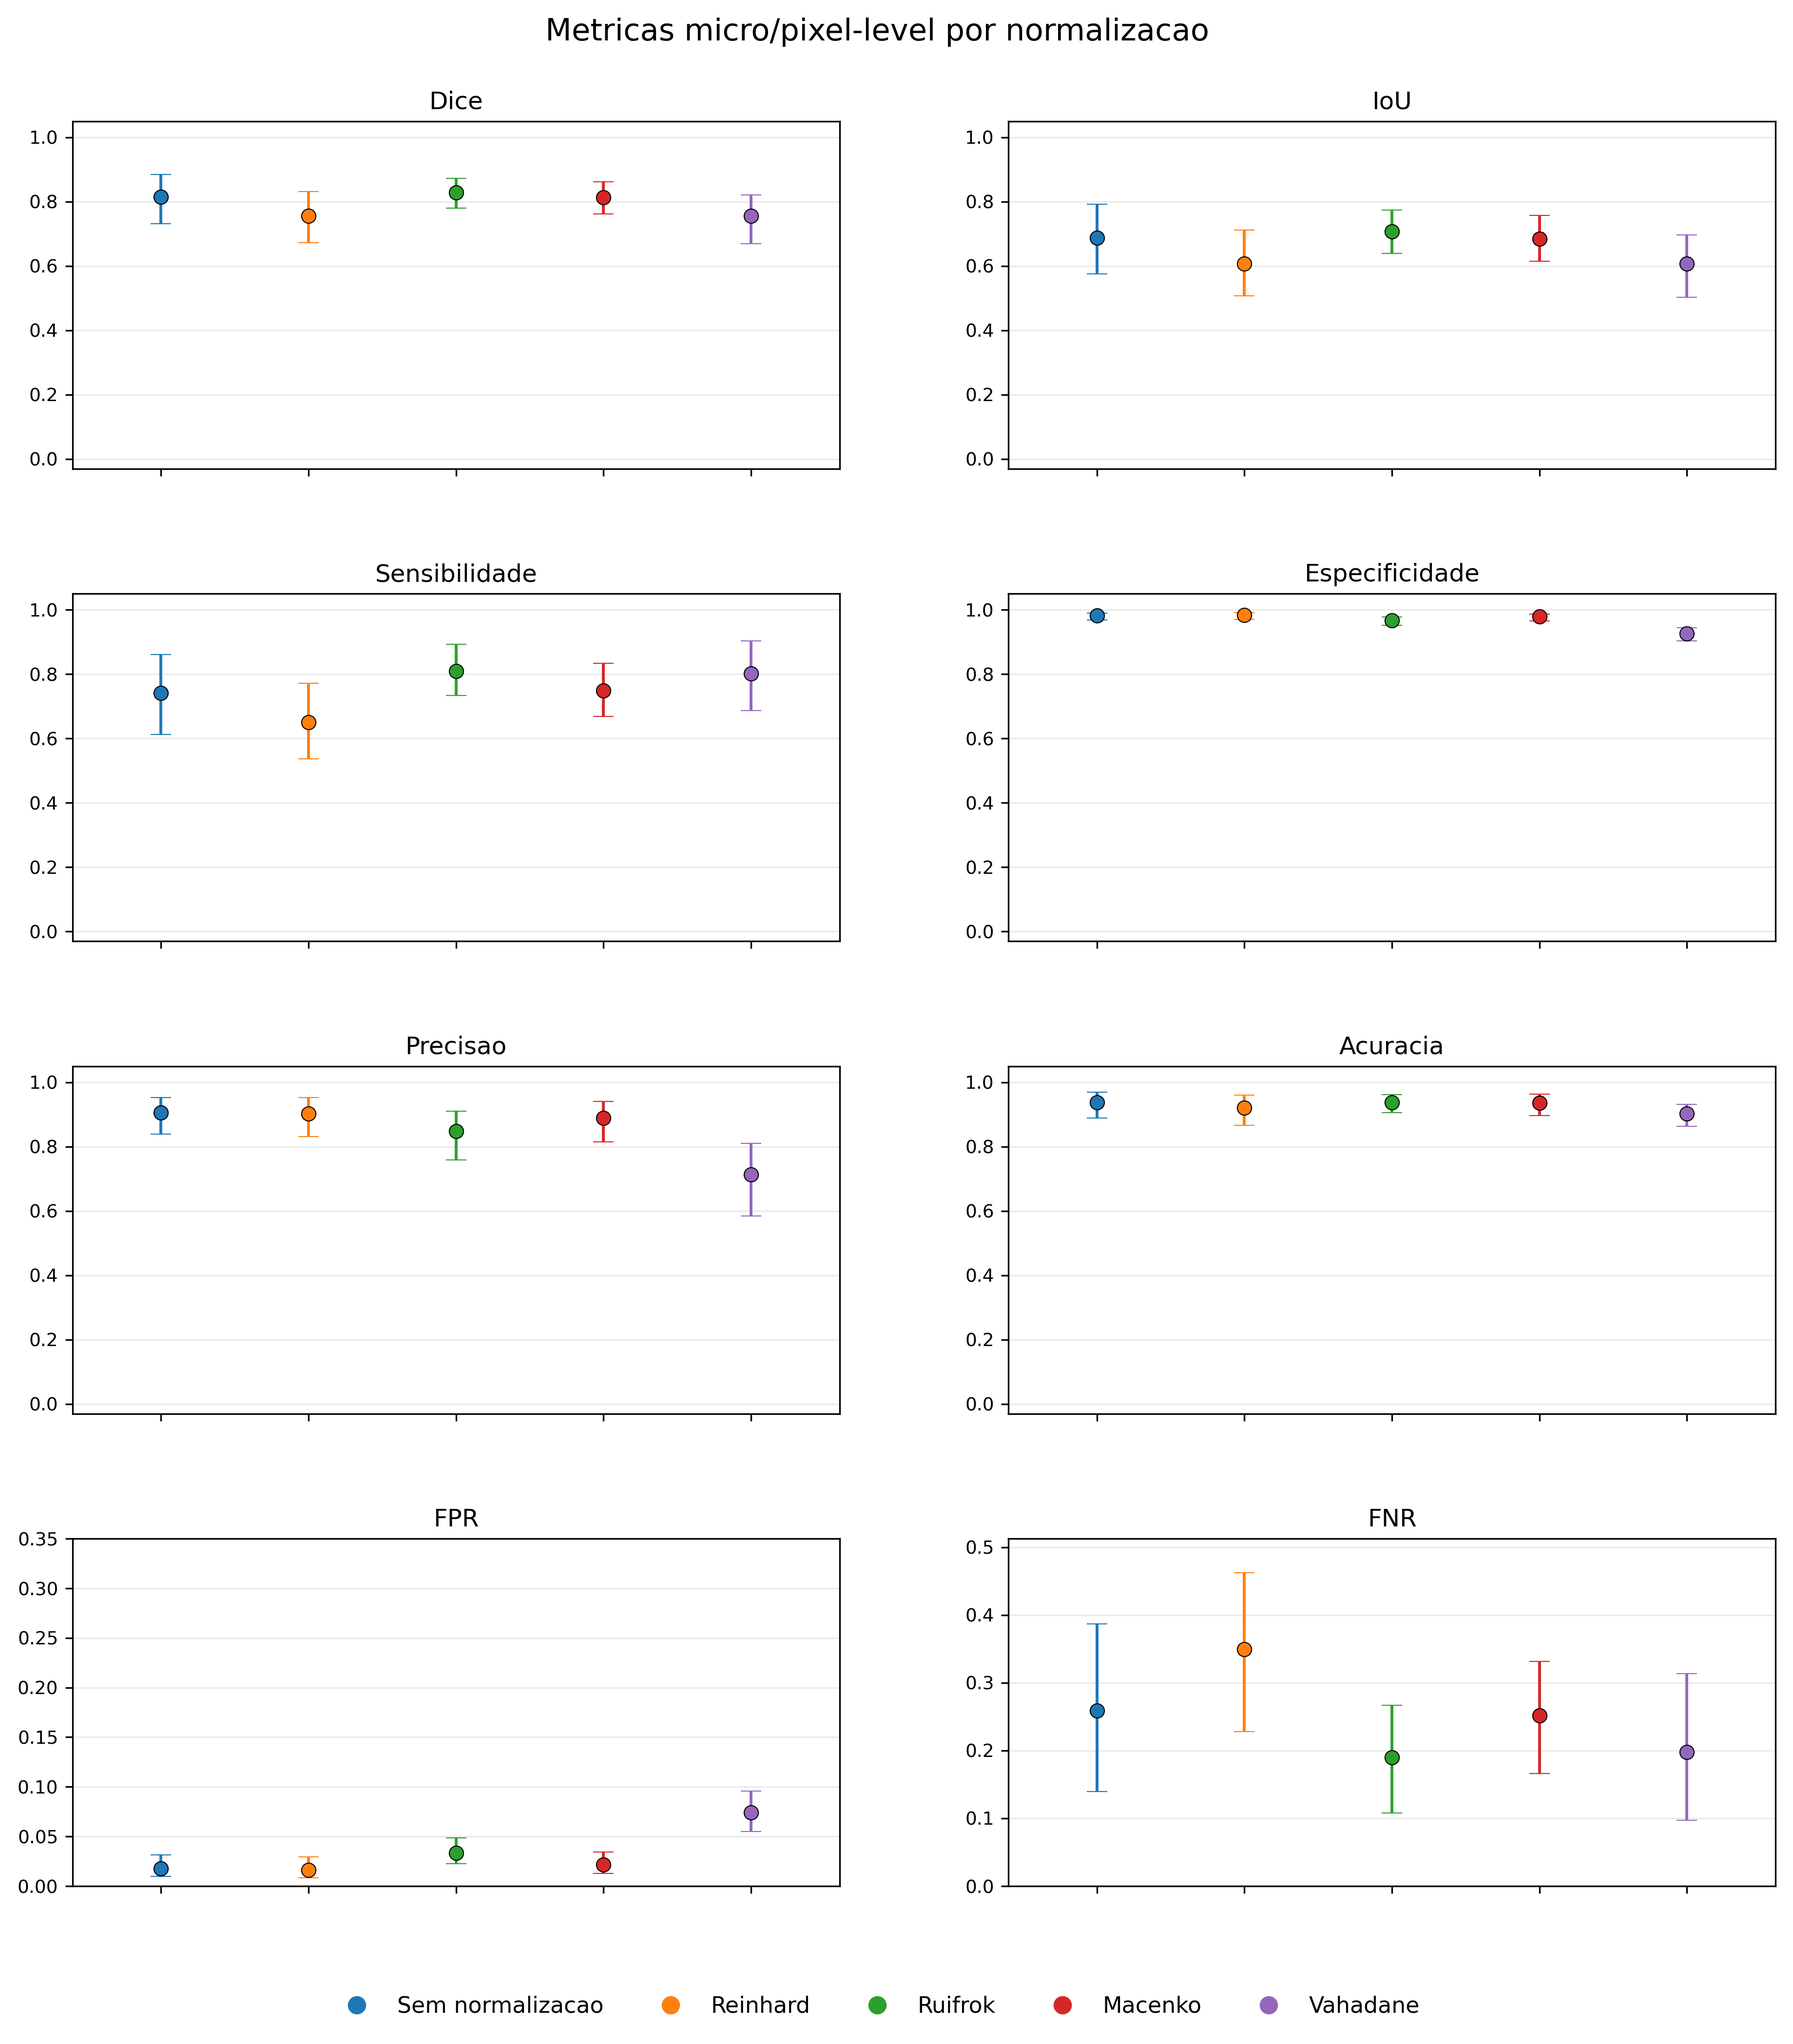
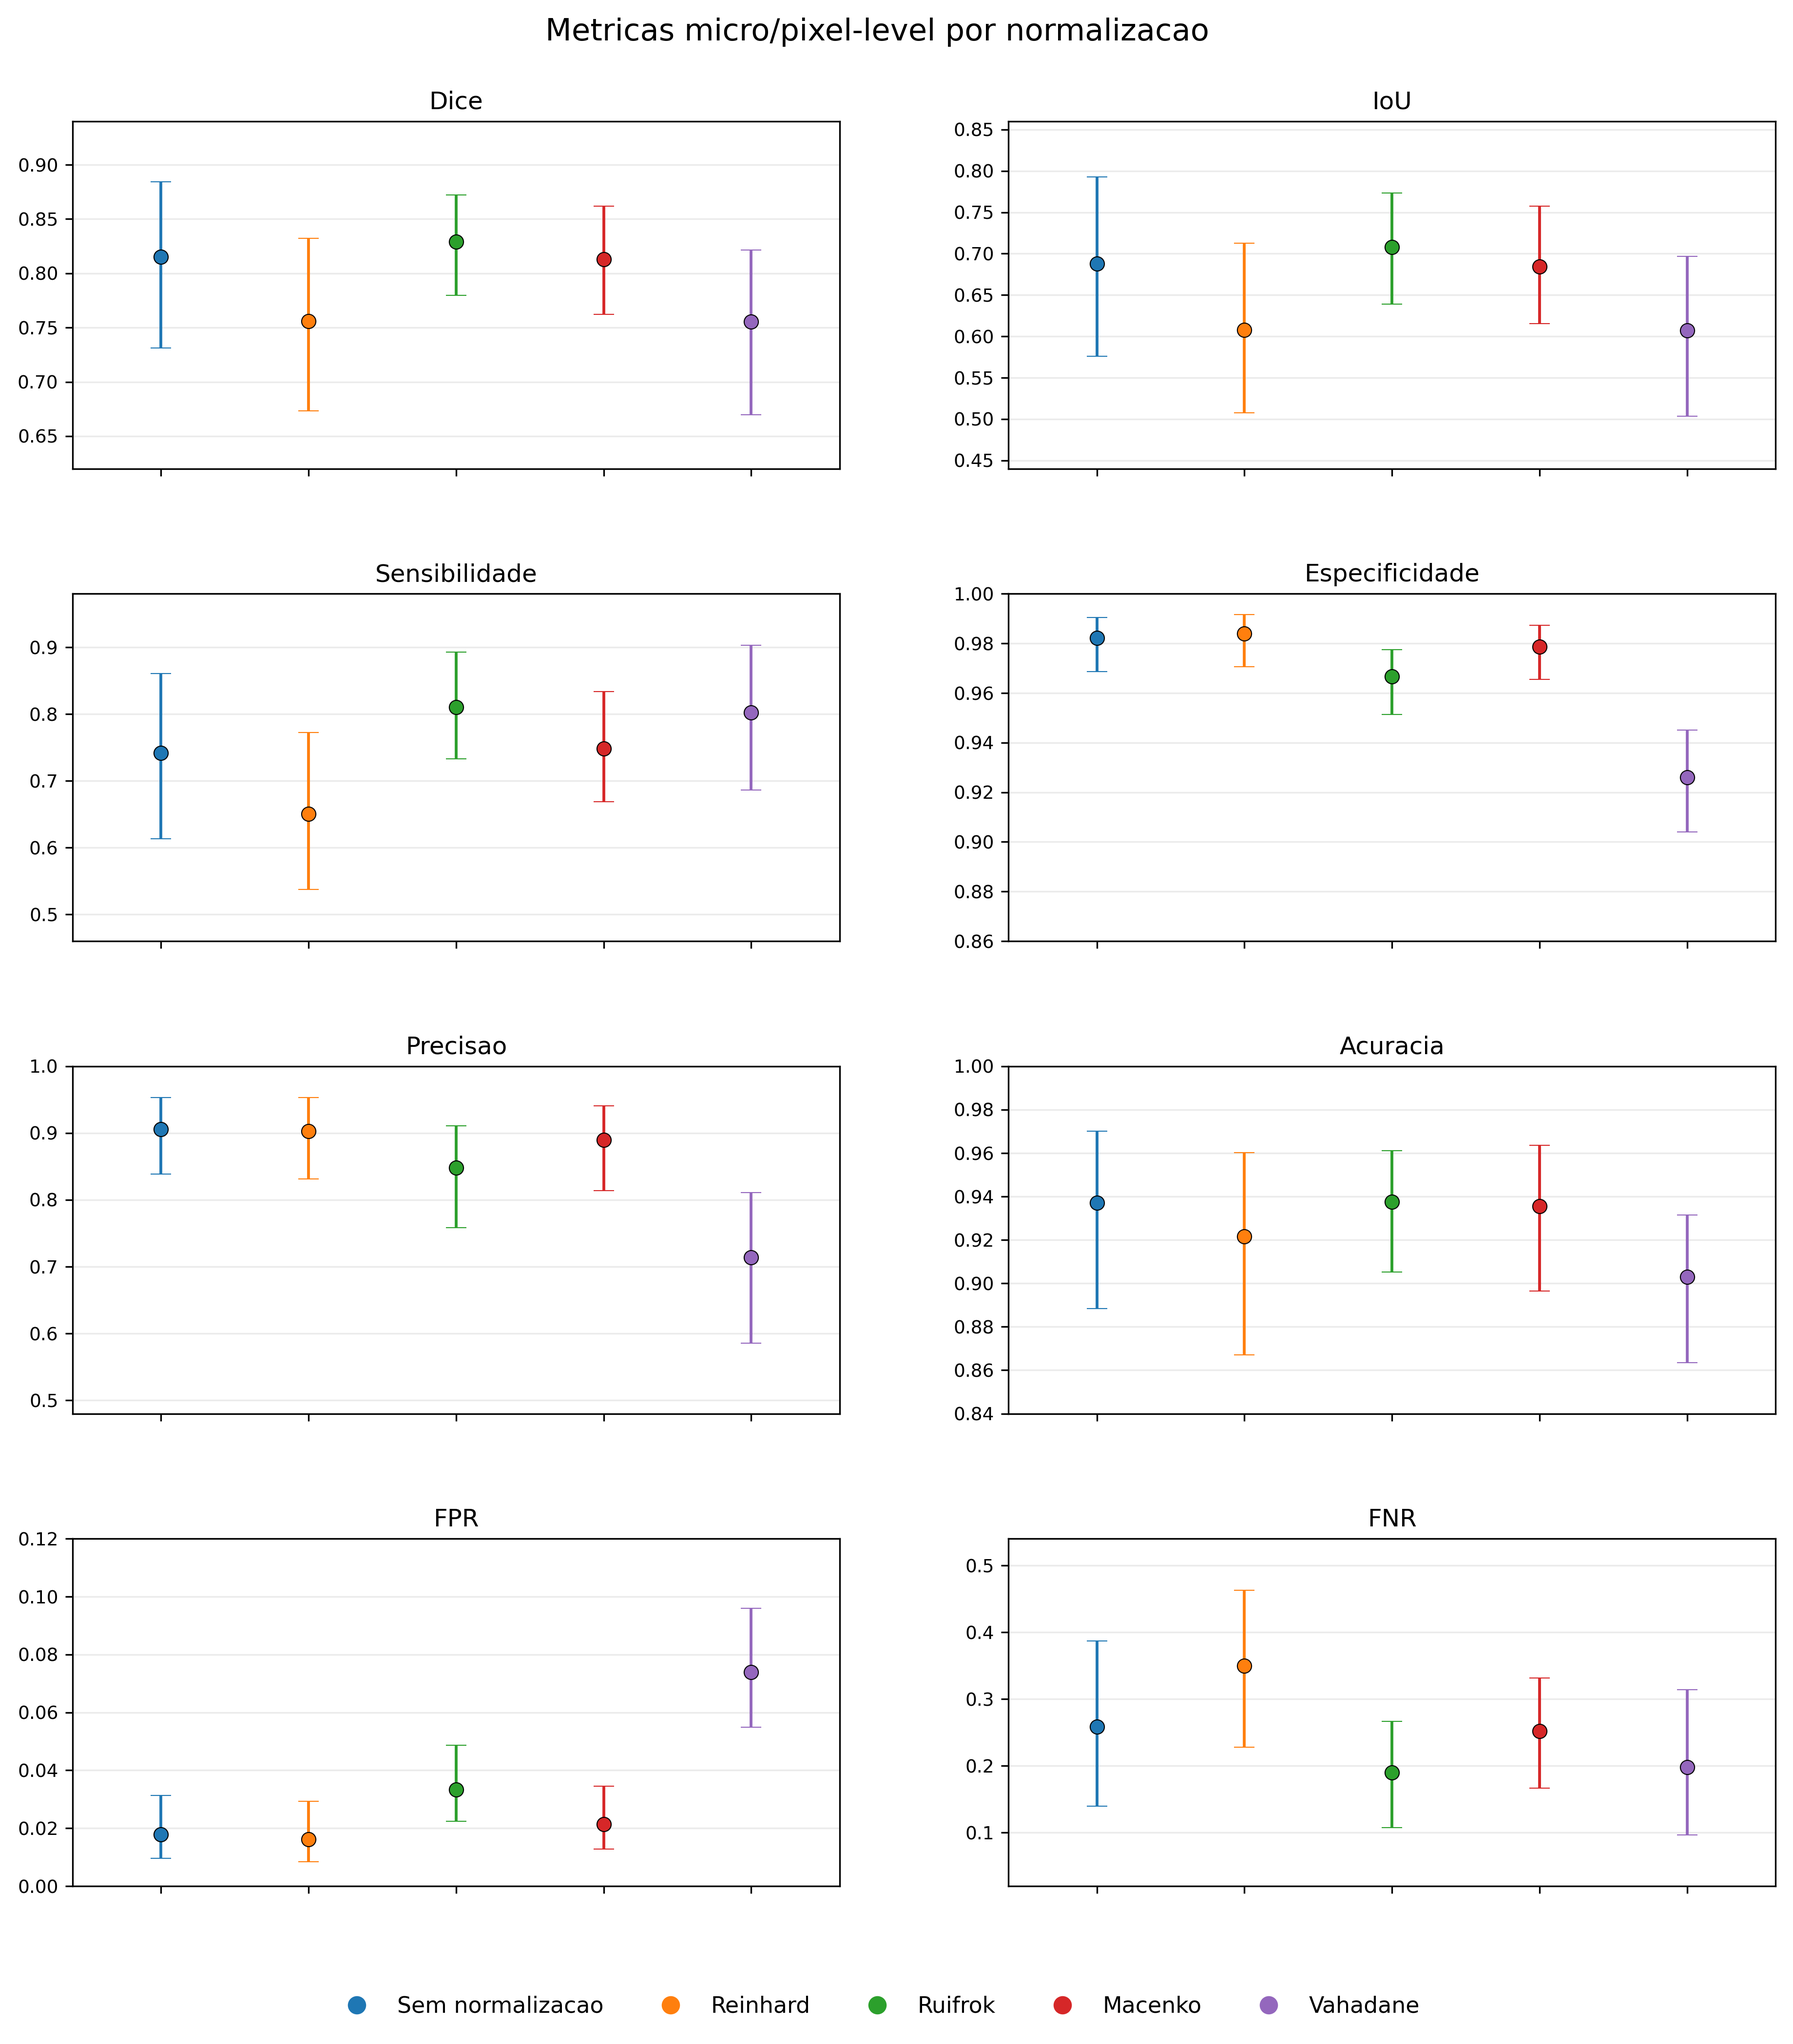
feat: Update figure captions and add adjustments for clarity in DIAGSET metrics

diff --git a/resultados.tex b/resultados.tex
@@ -534,14 +534,14 @@ A leitura geral dos resultados indica que o desempenho do método depende do cri
 \begin{figure}[!htb]
 \centering
 \includegraphics[width=0.98\textwidth,height=0.86\textheight,keepaspectratio]{figuras/results_diagset_micro_metrics.png}
-\caption{Métricas micro no conjunto de teste de DIAGSET. Cada painel apresenta uma métrica calculada a partir da agregação global dos pixels; os pontos indicam as estimativas por estratégia de normalização e as barras verticais representam IC95\%.}
+\caption{Métricas micro no conjunto de teste de DIAGSET. Cada painel apresenta uma métrica calculada a partir da agregação global dos pixels; os pontos indicam as estimativas por estratégia de normalização e as barras verticais representam IC95\%. Os eixos verticais são ajustados individualmente ao intervalo dos IC95\% exibidos, mantendo as métricas limitadas entre 0 e 1.}
 \label{fig:results_diagset-micro-metrics}
 \end{figure}
 
 \begin{figure}[!htb]
 \centering
 \includegraphics[width=0.98\textwidth,height=0.86\textheight,keepaspectratio]{figuras/results_diagset_macro_metrics.png}
-\caption{Métricas macro no conjunto de teste de DIAGSET. Cada painel apresenta uma métrica resumida inicialmente por paciente e posteriormente agregada entre pacientes; as barras verticais representam IC95\%.}
+\caption{Métricas macro no conjunto de teste de DIAGSET. Cada painel apresenta uma métrica resumida inicialmente por paciente e posteriormente agregada entre pacientes; as barras verticais representam IC95\%. Os eixos verticais são ajustados individualmente ao intervalo dos IC95\% exibidos, mantendo as métricas limitadas entre 0 e 1.}
 \label{fig:results_diagset-macro-metrics}
 \end{figure}
 
@@ -560,7 +560,7 @@ A leitura geral dos resultados indica que o desempenho do método depende do cri
 \caption{Pacientes negativos sem predição positiva}
 \label{fig:results_diagset-rule6-neg-clean}
 \end{subfigure}
-\caption{Avaliação separada de pacientes com e sem lesão anotada no conjunto de teste de DIAGSET. O painel esquerdo apresenta o Dice calculado apenas nos pacientes positivos; o painel direito mostra a proporção de pacientes negativos nos quais o método não produziu predições positivas. As barras verticais indicam IC95\%.}
+\caption{Avaliação separada de pacientes com e sem lesão anotada no conjunto de teste de DIAGSET. O painel esquerdo apresenta o Dice calculado apenas nos pacientes positivos; o painel direito mostra a proporção de pacientes negativos nos quais o método não produziu predições positivas. As barras verticais indicam IC95\%. Os eixos verticais são ajustados individualmente para destacar a comparação entre normalizações dentro de cada métrica.}
 \label{fig:results_diagset-rule6-metrics}
 \end{figure}
 
